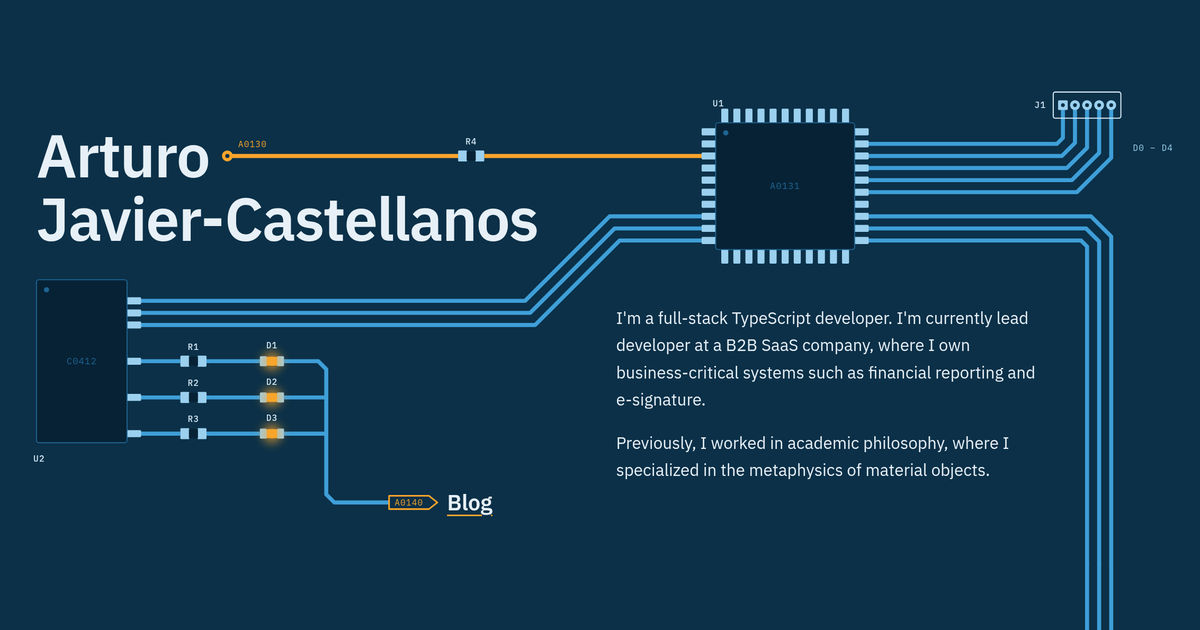
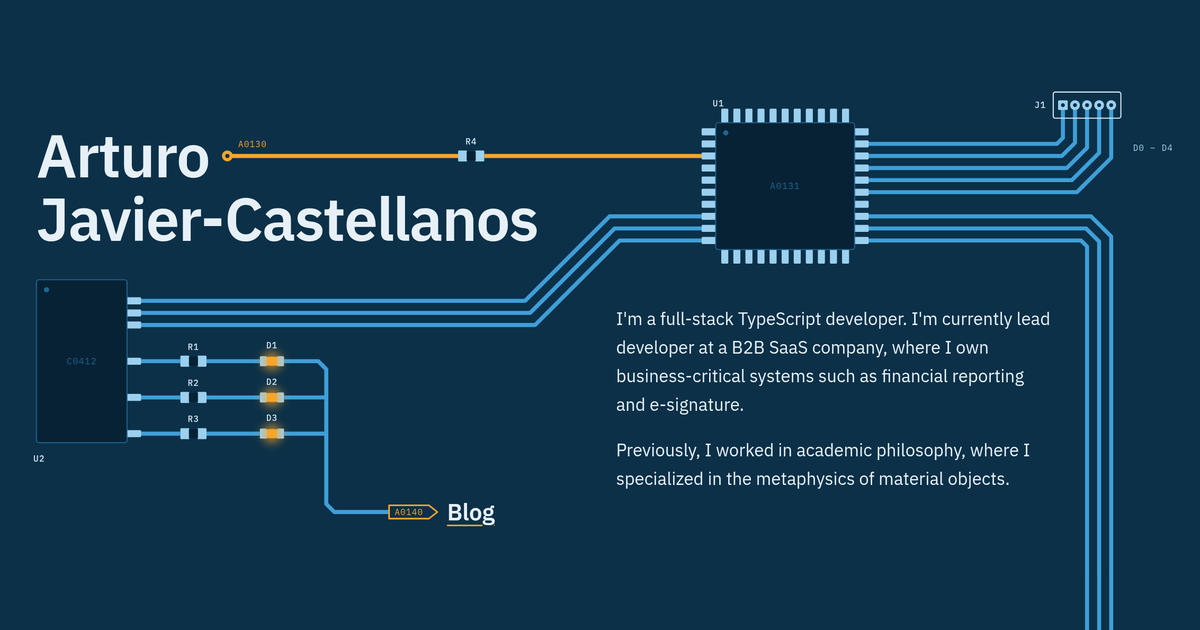
Stop the type shrinking below its design size, study 15's option B
Every piece of type but the name, the big headings and a post's title is
set in --t, the drawing unit floored at 1px. Below about 1350px on a wide
screen and 384px on a narrow one the drawing keeps shrinking and the type
does not, so the copy stays at 16.5px or more, the smallest type at 11px,
and zoom enlarges the copy. The layouts grow round the longer copy, as they
are built from it as measured.

The share card is remade, since its 1284px window is now under the floor.

Changed region(s): [[0.4933, 0.4825, 0.8633, 0.6635], [0.4933, 0.6937, 0.8633, 0.7841], [0.2467, 0.7841, 0.4317, 0.8444]]

diff --git a/styles.css b/styles.css
@@ -51,7 +51,7 @@ main { flex: 1 0 auto; width: 100%; max-width: 1500px; margin: 0 auto; padding: 
    _includes/scripts.html. So is the blog's text under its head's board, which would otherwise show under the
    hidden heading and jump down when the drawing arrives. */
 .js .board:not(.drawn) [data-seat], .js .board:not(.drawn) ~ .flow { visibility: hidden; }
-/* --u is one drawing unit, so the type scales with the drawing */
+/* --u is one drawing unit, so the drawing and the type scale together */
 .board.drawn [data-seat] { position: absolute; max-width: none; margin: 0; --u: calc(100cqw / var(--w)); }
 /* Below this width a section draws its narrow layout: see NARROW in js/board.js, which must match.
    The narrow drawing grows with the screen up to 448px and is centred beyond that. */
@@ -65,35 +65,42 @@ main { flex: 1 0 auto; width: 100%; max-width: 1500px; margin: 0 auto; padding: 
 /* The name is the page's heading. A layout sets its size in --fs. It is on two lines on a wide screen,
    Arturo / Javier-Castellanos, and on three on a narrow one, where each span is a line. */
 [data-seat] { --u: 1px; }
+/* --t is the type's unit: the drawing unit, but never below 1px, the size the type was designed at. On a wide screen
+   the type scales with the drawing, as one picture; in a window under about 1350px, or on a phone under about 380px,
+   it stops shrinking with it, wraps into more lines, and the layouts, built round it as measured, grow to fit. It
+   also lets zoom enlarge the copy, which it would not do while the type shrank with the window. Every piece of type
+   is set in it but the headings a layout places the drawing against by their size, the name and the blog's and the
+   404 page's big headings and a post's title, which stay on --u. */
+[data-seat], .flow .col, .foot-body { --t: max(1px, var(--u)); }
 .name { font: 600 calc(var(--fs, 48) * var(--u))/1.05 var(--sans); letter-spacing: -.02em; white-space: nowrap; }
 .name span:first-child { display: block; }
 /* A section's heading is seated on its own, apart from what it heads. */
-.board h2 { font: 600 calc(30 * var(--u))/1 var(--sans); letter-spacing: -.01em; white-space: nowrap; }
-.copy p { font: 400 calc(16.5 * var(--u))/1.64 var(--sans); margin: 0 0 calc(16 * var(--u)); }
+.board h2 { font: 600 calc(30 * var(--t))/1 var(--sans); letter-spacing: -.01em; white-space: nowrap; }
+.copy p { font: 400 calc(16.5 * var(--t))/1.64 var(--sans); margin: 0 0 calc(16 * var(--t)); }
 .copy p:last-child { margin-bottom: 0; }
 .copy strong { font-weight: 600; }
 .copy .nb { white-space: nowrap; }
 .copy a { color: inherit; text-decoration: underline; text-decoration-color: var(--accent);
-          text-decoration-thickness: max(1px, calc(1.5 * var(--u))); text-underline-offset: calc(3 * var(--u)); }
+          text-decoration-thickness: max(1px, calc(1.5 * var(--t))); text-underline-offset: calc(3 * var(--t)); }
 .copy a:hover { color: var(--accent); }
 .copy a:focus-visible { outline: 2px solid var(--accent); outline-offset: 2px; }
 /* The link to the blog, in About: one word, set like a project's name, at the end of a net that leaves the
    board through an off-page flag. Hovering it warms the flag. */
-.blog { display: block; color: inherit; font: 600 calc(22 * var(--u))/1.2 var(--sans); letter-spacing: -.005em; white-space: nowrap;
+.blog { display: block; color: inherit; font: 600 calc(22 * var(--t))/1.2 var(--sans); letter-spacing: -.005em; white-space: nowrap;
         text-decoration: underline; text-decoration-color: var(--accent);
-        text-decoration-thickness: max(1px, calc(1.5 * var(--u))); text-underline-offset: calc(4 * var(--u)); }
+        text-decoration-thickness: max(1px, calc(1.5 * var(--t))); text-underline-offset: calc(4 * var(--t)); }
 .blog:hover { color: var(--accent); }
 .blog:focus-visible { outline: 2px solid var(--accent); outline-offset: 3px; }
 .board:has(a[data-seat]:hover) .flag.go { fill: color-mix(in srgb, var(--accent) 15%, var(--bg)); }
 /* A project is its name, which links to its repo, its stack, and a paragraph. */
-.project h3 { font: 600 calc(22 * var(--u))/1.2 var(--sans); letter-spacing: -.005em; margin: 0 0 calc(5 * var(--u)); white-space: nowrap; }
-.project h3 a { text-underline-offset: calc(4 * var(--u)); }
-.project .stack { font: 400 calc(11.5 * var(--u))/1.4 var(--mono); letter-spacing: .04em; color: var(--pad); margin: 0 0 calc(14 * var(--u)); }
+.project h3 { font: 600 calc(22 * var(--t))/1.2 var(--sans); letter-spacing: -.005em; margin: 0 0 calc(5 * var(--t)); white-space: nowrap; }
+.project h3 a { text-underline-offset: calc(4 * var(--t)); }
+.project .stack { font: 400 calc(11.5 * var(--t))/1.4 var(--mono); letter-spacing: .04em; color: var(--pad); margin: 0 0 calc(14 * var(--t)); }
 /* A paper is its title, which links to the draft's PDF, its journal, which links to the published article, and a summary. The titles are long,
    so unlike a project's name they wrap, balanced so the lines are about even. */
-.paper h3 { font: 600 calc(22 * var(--u))/1.25 var(--sans); letter-spacing: -.005em; margin: 0 0 calc(6 * var(--u)); text-wrap: balance; }
-.paper h3 a { text-underline-offset: calc(4 * var(--u)); }
-.paper .journal { font: 400 calc(11.5 * var(--u))/1.4 var(--mono); letter-spacing: .04em; color: var(--pad); margin: 0 0 calc(14 * var(--u)); }
+.paper h3 { font: 600 calc(22 * var(--t))/1.25 var(--sans); letter-spacing: -.005em; margin: 0 0 calc(6 * var(--t)); text-wrap: balance; }
+.paper h3 a { text-underline-offset: calc(4 * var(--t)); }
+.paper .journal { font: 400 calc(11.5 * var(--t))/1.4 var(--mono); letter-spacing: .04em; color: var(--pad); margin: 0 0 calc(14 * var(--t)); }
 /* The journal links to the published article without an underline: it shows only as the accent on hover. */
 .paper .journal a { text-decoration: none; }
 
@@ -121,11 +128,11 @@ main { flex: 1 0 auto; width: 100%; max-width: 1500px; margin: 0 auto; padding: 
    above it. The widths here must match the head layouts in js/sections/blog.js and post.js. */
 .big { font: 600 calc(var(--fs, 60) * var(--u))/1.05 var(--sans); letter-spacing: -.02em; white-space: nowrap; margin: 0; }
 .title { font: 600 calc(var(--fs, 34) * var(--u))/1.18 var(--sans); letter-spacing: -.015em; text-wrap: balance; margin: 0; }
-.date { font: 400 calc(11.5 * var(--u))/1.4 var(--mono); letter-spacing: .04em; color: var(--pad); margin: 0; }
+.date { font: 400 calc(11.5 * var(--t))/1.4 var(--mono); letter-spacing: .04em; color: var(--pad); margin: 0; }
 /* a post's way back, set like a project's name; hovering it warms its flag */
-.back { color: inherit; font: 600 calc(22 * var(--u))/1.2 var(--sans); letter-spacing: -.005em; white-space: nowrap;
+.back { color: inherit; font: 600 calc(22 * var(--t))/1.2 var(--sans); letter-spacing: -.005em; white-space: nowrap;
         text-decoration: underline; text-decoration-color: var(--accent);
-        text-decoration-thickness: max(1px, calc(1.5 * var(--u))); text-underline-offset: calc(4 * var(--u)); }
+        text-decoration-thickness: max(1px, calc(1.5 * var(--t))); text-underline-offset: calc(4 * var(--t)); }
 .back:hover { color: var(--accent); }
 .back:focus-visible { outline: 2px solid var(--accent); outline-offset: 3px; }
 .flow { container-type: inline-size; }
@@ -136,23 +143,23 @@ main { flex: 1 0 auto; width: 100%; max-width: 1500px; margin: 0 auto; padding: 
   .flow .col { --u: calc(100cqw / 384); margin-left: calc(6 / 32 * 100%); width: calc(24 / 32 * 100%); }
 }
 /* an entry on the index: the title, which links to the post, the date and the excerpt */
-.entry + .entry { margin-top: calc(60 * var(--u)); }
-.entry h2 { font: 600 calc(22 * var(--u))/1.25 var(--sans); letter-spacing: -.005em; margin: 0 0 calc(6 * var(--u)); text-wrap: balance; }
+.entry + .entry { margin-top: calc(60 * var(--t)); }
+.entry h2 { font: 600 calc(22 * var(--t))/1.25 var(--sans); letter-spacing: -.005em; margin: 0 0 calc(6 * var(--t)); text-wrap: balance; }
 .entry h2 a { color: inherit; text-decoration: underline; text-decoration-color: var(--accent);
-              text-decoration-thickness: max(1px, calc(1.5 * var(--u))); text-underline-offset: calc(4 * var(--u)); }
+              text-decoration-thickness: max(1px, calc(1.5 * var(--t))); text-underline-offset: calc(4 * var(--t)); }
 .entry h2 a:hover { color: var(--accent); }
 .entry h2 a:focus-visible { outline: 2px solid var(--accent); outline-offset: 2px; }
-.entry .date { margin: 0 0 calc(12 * var(--u)); }
-.entry .ex { font: 400 calc(16.5 * var(--u))/1.64 var(--sans); margin: 0; }
+.entry .date { margin: 0 0 calc(12 * var(--t)); }
+.entry .ex { font: 400 calc(16.5 * var(--t))/1.64 var(--sans); margin: 0; }
 /* a post's body: what kramdown writes from the post's Markdown */
-.copy li { font: 400 calc(16.5 * var(--u))/1.64 var(--sans); }
-.copy ul, .copy ol { margin: 0 0 calc(16 * var(--u)); padding-left: 1.3em; }
-.copy h2 { font: 600 calc(22 * var(--u))/1.25 var(--sans); letter-spacing: -.005em; margin: calc(44 * var(--u)) 0 calc(12 * var(--u)); text-wrap: balance; }
-.copy h3 { font: 600 calc(18 * var(--u))/1.3 var(--sans); margin: calc(32 * var(--u)) 0 calc(10 * var(--u)); }
+.copy li { font: 400 calc(16.5 * var(--t))/1.64 var(--sans); }
+.copy ul, .copy ol { margin: 0 0 calc(16 * var(--t)); padding-left: 1.3em; }
+.copy h2 { font: 600 calc(22 * var(--t))/1.25 var(--sans); letter-spacing: -.005em; margin: calc(44 * var(--t)) 0 calc(12 * var(--t)); text-wrap: balance; }
+.copy h3 { font: 600 calc(18 * var(--t))/1.3 var(--sans); margin: calc(32 * var(--t)) 0 calc(10 * var(--t)); }
 .copy > :first-child { margin-top: 0; }
 .copy code { font: 400 .88em/1 var(--mono); color: var(--pad); overflow-wrap: anywhere; }
-.copy pre { font: 400 calc(12.5 * var(--u))/1.6 var(--mono); color: var(--silk); background: var(--chip); border-radius: calc(3 * var(--u));
-            padding: calc(12 * var(--u)) calc(14 * var(--u)); margin: 0 0 calc(16 * var(--u)); overflow-x: auto;
+.copy pre { font: 400 calc(12.5 * var(--t))/1.6 var(--mono); color: var(--silk); background: var(--chip); border-radius: calc(3 * var(--t));
+            padding: calc(12 * var(--t)) calc(14 * var(--t)); margin: 0 0 calc(16 * var(--t)); overflow-x: auto;
             scrollbar-width: thin; scrollbar-color: var(--trace-dim) transparent; }
 .copy pre code { font: inherit; color: inherit; overflow-wrap: normal; }
 .copy .highlight { margin: 0; }
@@ -162,10 +169,10 @@ main { flex: 1 0 auto; width: 100%; max-width: 1500px; margin: 0 auto; padding: 
 .highlight :is(.na, .nt, .nc, .nf, .fm, .nb, .bp, .nd, .ne) { color: var(--pad); }
 .highlight :is(.s, .s1, .s2, .sa, .sb, .sc, .sd, .se, .sh, .sx, .sr, .ss, .dl, .m, .mi, .mf, .mh, .mo, .mb, .il) { color: var(--accent); }
 .highlight :is(.c, .c1, .cm, .cs, .cd, .cp, .cpf, .ch, .p, .o) { color: var(--muted); }
-.copy blockquote { margin: 0 0 calc(16 * var(--u)); padding-left: 1.2em; color: var(--muted); font-style: italic; }
+.copy blockquote { margin: 0 0 calc(16 * var(--t)); padding-left: 1.2em; color: var(--muted); font-style: italic; }
 .copy img { max-width: 100%; height: auto; }
 /* Disqus draws the comments in its own frame, in its own styles */
-.comments { margin-top: calc(64 * var(--u)); }
+.comments { margin-top: calc(64 * var(--t)); }
 /* on the blog's pages, the name in the footer links to the home page, quietly */
 .foot .home { color: inherit; text-decoration: none; transition: color .15s; }
 .foot .home:hover { color: var(--accent); }
@@ -186,7 +193,7 @@ main { flex: 1 0 auto; width: 100%; max-width: 1500px; margin: 0 auto; padding: 
 .foot .contacts .in { width: calc(24 * var(--u)); height: calc(24 * var(--u)); }
 .foot .contacts a:hover svg { fill: var(--accent); }
 .foot .contacts a:focus-visible { outline: 2px solid var(--accent); outline-offset: calc(5 * var(--u)); border-radius: 2px; }
-.foot .cr { font: 400 calc(11 * var(--u))/1.4 var(--mono); letter-spacing: .06em; color: var(--muted); margin: calc(4 * var(--c)) 0 0; white-space: nowrap; }
+.foot .cr { font: 400 calc(11 * var(--t))/1.4 var(--mono); letter-spacing: .06em; color: var(--muted); margin: calc(4 * var(--c)) 0 0; white-space: nowrap; }
 @media (max-width: 1099px) {
   .foot-in { max-width: 448px; padding: 0; }
   .foot-body { --u: calc(100cqw / 384); padding: calc(4 * var(--c)) calc(2 * var(--c)) calc(3.5 * var(--c)); }

diff --git a/CLAUDE.md b/CLAUDE.md
@@ -25,7 +25,7 @@ On a phone the copy fills the screen, so there is no floating column for the cir
 
 ### What every narrow layout keeps
 
-- **The scale.** 32 cells wide, at the same pitch, trace weight and type sizes as the wide layout, so that at 390px one unit is about one pixel and body text about 16.8px. It is never the wide drawing shrunk.
+- **The scale.** 32 cells wide, at the same pitch, trace weight and type sizes as the wide layout, so that at 390px one unit is about one pixel and body text about 16.8px. Below 384px the drawing keeps shrinking and the type stops at its design size, 16.5px body text, as it does on a wide screen. It is never the wide drawing shrunk.
 - **Room for the copy.** The copy keeps at least 24 of the 32 cells. Circuit beside it goes on one side only, three traces at most.
 - **A short top.** 12 to 14 rows above the heading, so the heading and the first lines of copy are on the first screen.
 - **The same circuit, pared down.** It is a reduction of the section's wide drawing, not a new one: the main chip, the accent net, and the same designators and codes. Most of the bundles and the outlying chips go.
@@ -73,6 +73,7 @@ Studies double as a parts bin of working code:
 - `studies/12-favicon.html` holds the favicons the site does not use: a lit lamp on a trace and an orange trace turning 45° into a via, each on the board's ground, with a panel that also draws a resistor or a capacitor, other grounds, and traces that end on vias.
 - `studies/13-not-found.html` holds the 404 pages the site does not use, each a different fault on the board: an unfitted footprint (pads, a dashed outline and DNP, with its net into the heading blue), a lamp that is out and flickers now and then, and a seven-segment display reading 404 with the words as the heading. The footprint, the dead lamp and the display are parts `js/kit.js` does not have.
 - `studies/14-share-card.html` holds the link-preview images the site does not use, each a 1200 × 630 crop of the home page embedded in the file: the name and the circuit closer in with the copy hidden, and the circuit around U3 with no type at all. It also mocks a LinkedIn post and a Discord embed.
+- `studies/15-type-size.html` holds the rules for the type's size that the site does not use: every piece of type locked to the drawing all the way down, a fixed size in rem, and the wide layout from 1280px, each in an 1100px window, on two phones and zoomed on a laptop, with a table of their costs and benefits. Its panel also has a rule between the first two and the site's, shrinking half as fast as the drawing below the design size. The fixed size follows the browser's font-size setting, and at 20px that runs the phone layout's project names into the rail.
 
 ## The code
 
@@ -124,10 +125,10 @@ The 404 page, which GitHub Pages serves for any address it has no page for, is o
 - **Projects' and Research's accent nets end beside each item's name or title,** not beside the section's heading: just past it where the net comes from the right, just before it (`x − 1.5`) where it comes from the left. Research's titles wrap, so "just past" means past the first line: `hx` is that line's end, not the right of the heading's box.
 - **`bundle(centreline, n)`** returns `n` parallel traces that nest correctly round every corner. Write the centreline with right-angle turns; the 45° cuts are computed. `cut()` ends a trace early. `wire()` is a single trace; `hops` marks where it bridges. A third argument, `{ cornerIndex: units }`, sets the size of a corner's cut and makes a long 45° run; two corners whose cuts add up to the length of the segment between them make one straight diagonal. To split a bus, build two bundles of the full width whose centrelines share their first corners and `slice()` a different half from each. About's wide diagonal is one such half, `slice(3)` of a six-wide bundle.
 - **The circuit animates with the scroll,** as set out under "The animation" below.
-- **Each layout is fixed** and scales as a whole, copy included. The narrow one is drawn below 1100px, grows with the screen up to 448px wide, and is centred beyond that, so a tablet gets the phone drawing with margins.
+- **Each layout is fixed** and scales as a whole, its type included, down to the type's design size. Type is set in `--t`, which is `--u` but never below 1px: below about 1350px on a wide screen, and 384px on a narrow one, the drawing keeps shrinking and the type does not, so it wraps into more lines and the layouts, built from it as measured, grow to fit. That keeps the copy at 16.5px or more and lets zoom enlarge it. Set new type in `--t`. The name, the blog's and the 404 page's big headings and a post's title stay on `--u`, because a layout places the drawing against them by their size (the diagonal past the name's end in About's wide layout), and so do a seat's `top`, the footer's icons and anything else that is not type. The narrow one is drawn below 1100px, grows with the screen up to 448px wide, and is centred beyond that, so a tablet gets the phone drawing with margins.
 - **The breakpoint is written four times** and all must match: the three `max-width: 1099px` media queries in `styles.css`, the boards' (which also sets the name's line breaks), the blog's `.flow` and the footer's, and `NARROW` in `js/board.js`.
 - **The footer is on the boards' grid without being a board.** It has no layout or script; its CSS scales with the same units, 1284 wide and 384 narrow, and centres the icons on cells 6 to 98, Research's two columns, which puts them under the gap between them rather than at the window's middle. `main` has no bottom padding, so Research's drawing ends straight onto the band.
-- **The blog's text is on the boards' grid without being on a board.** `.flow .col` sets its own `--u` from its container's width, as a board does, so its type scales with the drawing, and sits at cells 30 to 84 of 107, 54 wide, about 725px on a wide screen, the width of the column the user chose as a reference (Michael Huemer's Substack), or 6 to 30 of 32 below the breakpoint. Those are the columns `js/sections/blog.js` and `post.js` seat the heading, the title and the date at: move one and move the other. The head's board ends where the text starts, its `rows` a few under the heading or the date, so a new post changes nothing but the index's length, and a post's drawing depends only on its title.
+- **The blog's text is on the boards' grid without being on a board.** `.flow .col` sets its own `--u` from its container's width, as a board does, and its type is in `--t`, so it scales with the drawing down to its design size, and sits at cells 30 to 84 of 107, 54 wide, about 725px on a wide screen, the width of the column the user chose as a reference (Michael Huemer's Substack), or 6 to 30 of 32 below the breakpoint. Those are the columns `js/sections/blog.js` and `post.js` seat the heading, the title and the date at: move one and move the other. The head's board ends where the text starts, its `rows` a few under the heading or the date, so a new post changes nothing but the index's length, and a post's drawing depends only on its title.
 - **`mountBoard()` redraws** when the board's width changes, when the page crosses the breakpoint, when the fonts arrive and when a seated block's height changes at the same width, because the copy wraps differently at another width or in another face, and is taller under a reader's text-spacing override, a translation or text-only zoom. `build(m)` therefore runs many times: build fresh wires in it, or build them once outside it and never `cut()` them inside. Every board is redrawn in the same turn. A width or height change within one layout redraws only once the sizes have been still for `SETTLE` (150ms), and only the boards whose width or block heights differ from those they were drawn at, which keeps a redraw's own resizing of the blocks from setting off another: until then the drawing and the type scale together as they are, which keeps a drag of the window's edge smooth, where a redraw every frame costs about 50ms a frame on the wide home page. Crossing the breakpoint redraws at once.
 
 ### The animation
@@ -174,7 +175,7 @@ A trace is drawn from its first point, so write a run's centreline from its sour
 - **Parts and via holes are painted in the ground colour.** A resistor or lamp hides the trace under it with a `--bg` rectangle, and a via's hole is a `--bg` disc. Both break if the ground stops being one flat colour, and a part must sit on a straight run with nothing else passing under it.
 - **Near the copy's edge, align exactly or miss by a clear cell.** On the narrow grid most things sit close to the copy's left or right edge, and a 2px miss reads as a mistake. A chip's body is drawn 3 units inside its box and a connector's outline exactly on it, so a chip whose body should line up with copy at cell 2 has `x0: 1.75`.
 - **Labels collide silently.** A label character is about half a cell wide, and nothing checks a label against traces, parts or the copy. After adding or moving one, zoom in on the render.
-- **`--u` is defined on the seated blocks, `[data-seat]`, not on `.board`.** It is built from a container-query unit, which resolves against an ancestor container, and `.board` is the container.
+- **`--u` and `--t` are defined on the seated blocks, `[data-seat]`, not on `.board`.** It is built from a container-query unit, which resolves against an ancestor container, and `.board` is the container.
 - **The lamp halo's blur is in CSS pixels,** so unlike everything else it does not scale with the drawing.
 
 ### Looking at the page
@@ -185,6 +186,7 @@ Render the page and look at it; a description of the code is not evidence. The u
   `python3 -c "import http.server as h; H = h.SimpleHTTPRequestHandler; e = H.end_headers; H.end_headers = lambda s: (s.send_header('Cache-Control', 'no-store'), e(s))[1]; h.ThreadingHTTPServer(('127.0.0.1', 8741), H).serve_forever()"` and `fuser -k 8741/tcp`. Stop it by port, not with `pkill -f` and a pattern, which also matches the shell running it when the pattern appears anywhere in that shell's command. Plain `python3 -m http.server` sends no cache headers, and Chrome then loads the page with some modules new and some stale, which shows up as a section with no drawing.
 - **A section is taller than the screenshot.** Set `document.body.style.zoom` to fit it for an overview, then use the zoom action on bridges, labels and trace ends, where the problems are. Take measurements at zoom 1.
 - **Look at the narrow layout in iframes,** several widths side by side. On the served page, hide `main` and inject same-origin iframes of the page at 320, 390, 430 and 768px wide; media queries inside an iframe follow the iframe's width, and its `contentDocument` can be measured from outside. Give each iframe `box-sizing: content-box` and more height than the page, or its border and a scrollbar come out of the width. Check at each width that there is no horizontal scroll, that the accent via is level with the heading's cap middle, and that the gap under the copy's last line is the same. Then change one iframe's width across 1100px in both directions and check the drawing swaps.
+- **Headless Chrome's window is never narrower than 500px.** A `--window-size` under that lays the page out at 500px and squeezes the screenshot to the width asked for afterwards, with the type in the wrong seats. To screenshot a phone width headlessly, serve a page of iframes at those widths from another port and screenshot that.
 - **The pages are served by Jekyll,** with the system Ruby. The gems are in `vendor/bundle`, set by the ignored `.bundle/config`; in a fresh clone, run `bundle config set --local path vendor/bundle` and `bundle install` first. Serve at http://127.0.0.1:4000 with `bundle exec jekyll serve`, which sends no-cache headers and rebuilds when a file changes, and stop it with `fuser -k 4000/tcp`. Jekyll does not reload `_config.yml` while serving: restart it after changing that. It also serves `404.html` for a missing address only if the file existed when it started; otherwise open `/404.html` directly.
   Opened without Jekyll, `index.html` shows its front matter and the footer's include as text. The studies are not part of the site (`_config.yml` excludes them) and still open from the plain server above, or straight from disk.
 - **Mood board images:** navigating a tab straight to an `i.pinimg.com` image hangs the screenshot tool, and `/originals/` URLs fail. Stay on the board page, read the pin image URLs from the DOM, swap `/236x/` for `/736x/`, and show the image in an element injected into that page.
